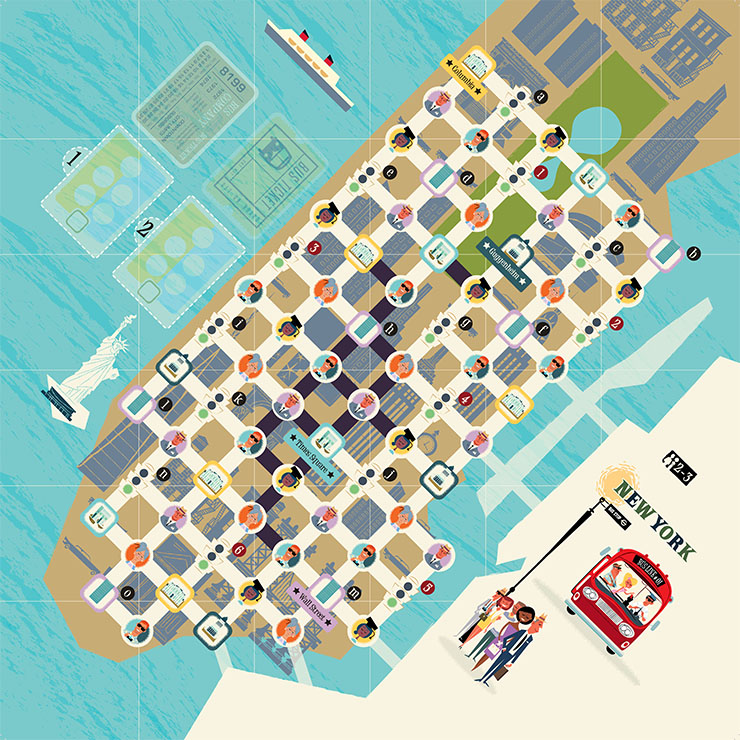
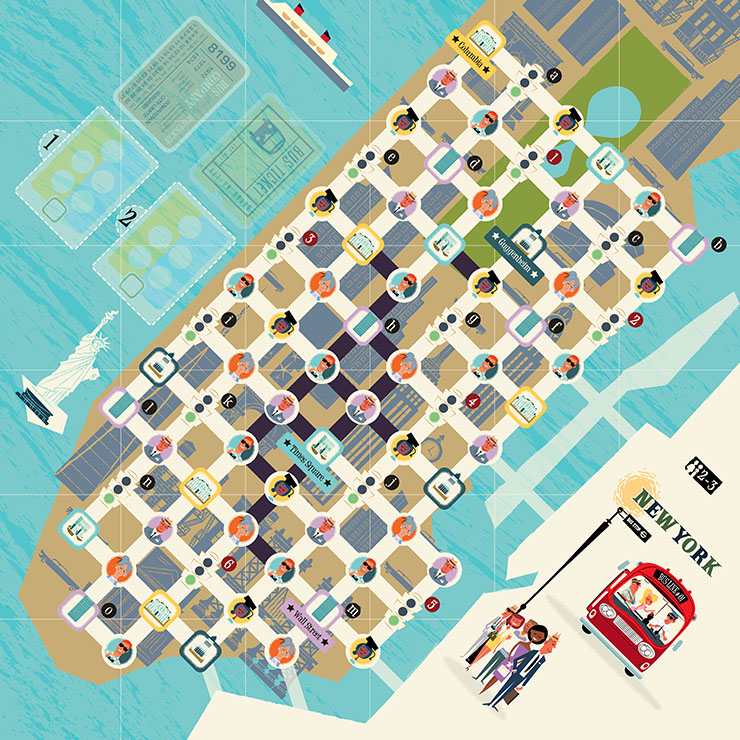
adjust positions

diff --git a/getonboard.css b/getonboard.css
@@ -31,16 +31,17 @@
 .player-board .personal-objective-wrapper .personal-objective.expanded {
   background-size: auto 100%;
   transform-origin: center center;
+  border-radius: 10px;
 }
 .player-board .personal-objective-wrapper .personal-objective.expanded.big {
   width: 120px;
-  height: 86px;
-  background: url("img/personal-objectives-big.png");
+  height: 84px;
+  background-image: url("img/personal-objectives-big.png");
 }
 .player-board .personal-objective-wrapper .personal-objective.expanded.small {
-  width: 86px;
+  width: 84px;
   height: 120px;
-  background: url("img/personal-objectives-small.png");
+  background-image: url("img/personal-objectives-small.png");
 }
 .player-board .personal-objective-wrapper .personal-objective.expanded[data-type="1"] {
   background-position-x: 0%;
@@ -95,6 +96,10 @@
   transform: rotate(45deg);
   clip-path: polygon(30% 0%, 70% 0%, 100% 30%, 100% 70%, 70% 100%, 30% 100%, 0% 70%, 0% 30%);
 }
+#center #map[data-size=small] #map-elements .intersection:not(.green-light) .objective-letter {
+  top: -13px;
+  right: -14px;
+}
 #center #map[data-size=small] #map-elements .route[data-direction="0"] {
   flex-direction: column;
 }
@@ -105,22 +110,22 @@
   width: 6px;
 }
 #center #map[data-size=small] #map-elements .common-objective-slot {
-  top: 374px;
+  top: 372px;
 }
 #center #map[data-size=small] #map-elements .common-objective-slot#common-objective-slot-1 {
-  left: -22px;
+  left: -9px;
 }
 #center #map[data-size=small] #map-elements .common-objective-slot#common-objective-slot-2 {
-  left: 88px;
+  left: 100px;
 }
 #center #map[data-size=small] #map-elements .ticket-slot {
-  top: 240px;
+  top: 241px;
 }
 #center #map[data-size=small] #map-elements .ticket-slot#ticket-slot-1 {
-  left: -22px;
+  left: -9px;
 }
 #center #map[data-size=small] #map-elements .ticket-slot#ticket-slot-2 {
-  left: 88px;
+  left: 100px;
 }
 #center #map[data-size=big] {
   background: url("img/map-big.jpg");
@@ -135,22 +140,22 @@
   height: 6px;
 }
 #center #map[data-size=big] #map-elements .common-objective-slot {
-  top: 3px;
+  top: 16px;
 }
 #center #map[data-size=big] #map-elements .common-objective-slot#common-objective-slot-1 {
-  left: 344px;
+  left: 356px;
 }
 #center #map[data-size=big] #map-elements .common-objective-slot#common-objective-slot-2 {
-  left: 459px;
+  left: 470px;
 }
 #center #map[data-size=big] #map-elements .ticket-slot {
-  top: 3px;
+  top: 16px;
 }
 #center #map[data-size=big] #map-elements .ticket-slot#ticket-slot-1 {
-  left: 138px;
+  left: 146px;
 }
 #center #map[data-size=big] #map-elements .ticket-slot#ticket-slot-2 {
-  left: 227px;
+  left: 241px;
 }
 #center #map #map-elements {
   width: 740px;
@@ -172,15 +177,22 @@
 }
 #center #map #map-elements .intersection .objective-letter {
   position: absolute;
-  width: 10px;
-  height: 10px;
+  width: 16px;
+  height: 16px;
   border-radius: 50%;
+}
+#center #map #map-elements .intersection.green-light .objective-letter {
+  top: -16px;
+  right: -8px;
+}
+#center #map #map-elements .intersection:not(.green-light) .objective-letter {
   top: -9px;
-  right: -6px;
+  right: -14px;
 }
 #center #map #map-elements .departure-pawn {
   width: 32px;
-  height: 32px;
+  height: 44px;
+  margin-top: -5px;
   mask: url("img/departure.svg") no-repeat center/contain;
   -webkit-mask: url("img/departure.svg") no-repeat center/contain;
 }
@@ -281,7 +293,7 @@
   position: absolute;
 }
 .common-objective-slot .common-objective {
-  width: 86px;
+  width: 84px;
   height: 120px;
 }
 .common-objective-slot .common-objective[id=common-objective-1] .card-side {
@@ -317,7 +329,7 @@
   position: absolute;
 }
 .ticket-slot .ticket {
-  width: 86px;
+  width: 84px;
   height: 120px;
 }
 .ticket-slot .ticket[data-ticket="1"] .back {
@@ -945,7 +957,7 @@
 }
 
 html, .mode_3d #game_play_area_background {
-  background: url("img/background.jpg") #102f50;
+  background: url("img/background.jpg") #f9f4e1;
   background-size: 100% auto;
   background-repeat: no-repeat;
 }

diff --git a/src/_table-center.scss b/src/_table-center.scss
@@ -16,6 +16,13 @@ $marker-size: 6px;
         transform: rotate(45deg);
         clip-path: polygon(30% 0%, 70% 0%, 100% 30%, 100% 70%, 70% 100%, 30% 100%, 0% 70%, 0% 30%);
 
+        .intersection:not(.green-light) {
+          .objective-letter {
+            top: -13px;
+            right: -14px;
+          }
+        }
+
         .route {
           &[data-direction="0"] {
             flex-direction: column;
@@ -32,24 +39,24 @@ $marker-size: 6px;
         }
 
         .common-objective-slot {
-          top: 374px;
+          top: 372px;
 
           &#common-objective-slot-1 {
-            left: -22px;
+            left: -9px;
           }
           &#common-objective-slot-2 {
-            left: 88px;
+            left: 100px;
           }
         }
 
         .ticket-slot {
-          top: 240px;
+          top: 241px;
 
           &#ticket-slot-1 {
-            left: -22px;
+            left: -9px;
           }
           &#ticket-slot-2 {
-            left: 88px;
+            left: 100px;
           }
         }
       }
@@ -75,24 +82,24 @@ $marker-size: 6px;
         }
 
         .common-objective-slot {
-          top: 3px;
+          top: 16px;
 
           &#common-objective-slot-1 {
-            left: 344px;
+            left: 356px;
           }
           &#common-objective-slot-2 {
-            left: 459px;
+            left: 470px;
           }
         }
 
         .ticket-slot {
-          top: 3px;
+          top: 16px;
 
           &#ticket-slot-1 {
-            left: 138px;
+            left: 146px;
           }
           &#ticket-slot-2 {
-            left: 227px;
+            left: 241px;
           }
         }
       }
@@ -119,17 +126,30 @@ $marker-size: 6px;
 
         .objective-letter {
           position: absolute;
-          width: 10px;
-          height: 10px;
+          width: 16px;
+          height: 16px;
           border-radius: 50%;
-          top: -9px;
-          right: -6px;
+        }
+
+        &.green-light {
+          .objective-letter {
+            top: -16px;
+            right: -8px;
+          }
+        }
+
+        &:not(.green-light) {
+          .objective-letter {
+            top: -9px;
+            right: -14px;
+          }
         }
       }
 
       .departure-pawn {
         width: 32px;
-        height: 32px;
+        height: 44px;
+        margin-top: -5px;
         mask: url('img/departure.svg') no-repeat center / contain;
         -webkit-mask: url('img/departure.svg') no-repeat center / contain;
       }
@@ -249,7 +269,7 @@ $marker-size: 6px;
   position: absolute;
 
   .common-objective {
-    width: 86px;
+    width: 84px;
     height: 120px;
 
     @for $i from 1 through 6 {
@@ -277,7 +297,7 @@ $marker-size: 6px;
   position: absolute;
 
   .ticket {
-    width: 86px;
+    width: 84px;
     height: 120px;
 
     @for $i from 1 through 12 {

diff --git a/getonboard.js b/getonboard.js
@@ -379,7 +379,7 @@ var TableCenter = /** @class */ (function () {
             var elements = gamedatas.MAP_POSITIONS[position];
             var departure = elements.find(function (element) { return element >= 1 && element <= 12; });
             var coordinates = _this.getCoordinatesFromPosition(position);
-            var html = "<div id=\"intersection".concat(position, "\" class=\"intersection");
+            var html = "<div id=\"intersection".concat(position, "\" class=\"intersection ").concat(elements.some(function (element) { return element == 0; }) ? 'green-light' : '');
             if (departure > 0) {
                 html += " departure\" data-departure=".concat(departure);
             }
@@ -456,17 +456,17 @@ var TableCenter = /** @class */ (function () {
     };
     TableCenter.prototype.getCoordinatesFromNumberAndDigit = function (number, digit) {
         if (this.gamedatas.map === 'big') {
-            var space = 65;
+            var space = 63.2;
             return [
-                26 + space * number,
-                165 + space * digit,
+                38 + space * number,
+                179 + space * digit,
             ];
         }
         else if (this.gamedatas.map === 'small') {
-            var space = 60;
+            var space = 57.4;
             return [
-                196 + space * digit,
-                28 + space * number,
+                203 + space * digit,
+                40 + space * number,
             ];
         }
     };

diff --git a/src/table-center.ts b/src/table-center.ts
@@ -13,7 +13,7 @@ class TableCenter {
             const departure = elements.find(element => element >= 1 && element <= 12);
             const coordinates = this.getCoordinatesFromPosition(position);
 
-            let html = `<div id="intersection${position}" class="intersection`;
+            let html = `<div id="intersection${position}" class="intersection ${elements.some(element => element == 0) ? 'green-light' : ''}`;
             if (departure > 0) {
                 html += ` departure" data-departure=${departure}`;
             }
@@ -105,16 +105,16 @@ class TableCenter {
 
     private getCoordinatesFromNumberAndDigit(number: number, digit: number): number[] {
         if (this.gamedatas.map === 'big') {
-            const space = 65;
+            const space = 63.2;
             return [
-                26 + space * number,
-                165 + space * digit,
+                38 + space * number,
+                179 + space * digit,
             ];
         } else if (this.gamedatas.map === 'small') {
-            const space = 60;
+            const space = 57.4;
             return [
-                196 + space * digit,
-                28 + space * number,
+                203 + space * digit,
+                40 + space * number,
             ];
         }
     }

diff --git a/src/_playerboards.scss b/src/_playerboards.scss
@@ -41,16 +41,17 @@
       &.expanded {
         background-size: auto 100%;
         transform-origin: center center;
+        border-radius: 10px;
   
         &.big {
           width: 120px;
-          height: 86px;
-          background: url('img/personal-objectives-big.png');
+          height: 84px;
+          background-image: url('img/personal-objectives-big.png');
         }
         &.small {
-          width: 86px;
+          width: 84px;
           height: 120px;
-          background: url('img/personal-objectives-small.png');
+          background-image: url('img/personal-objectives-small.png');
         }
   
         @for $i from 1 through 5 {

diff --git a/src/getonboard.scss b/src/getonboard.scss
@@ -3,7 +3,7 @@
 @import 'player-table';
 
 html, .mode_3d #game_play_area_background {
-  background: url('img/background.jpg') #102f50;
+  background: url('img/background.jpg') #f9f4e1;
   background-size: 100% auto;
   background-repeat: no-repeat;
 }
